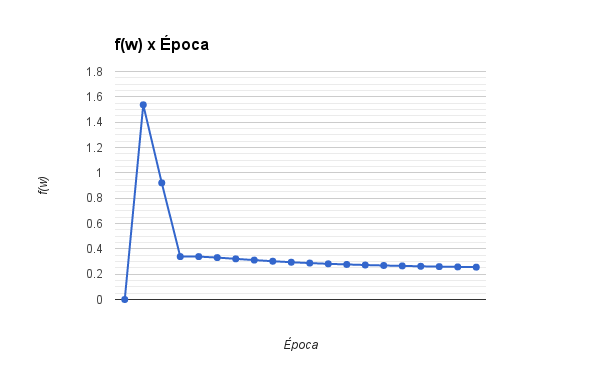
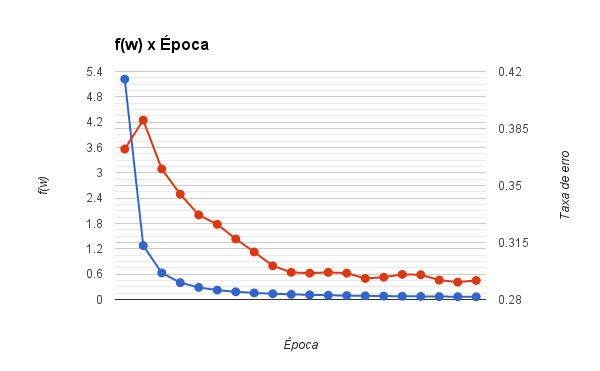
bug fix. Imagemf(w) x epoca refeita

diff --git a/PA1/svm.py b/PA1/svm.py
@@ -41,7 +41,8 @@ def convertText2FeatureArray(fileName, vocabulary):
                                 emailFeatures.append(1)
                         else:
                                 emailFeatures.append(0)
-                data.append([int(lineSplit[0]), numpy.array(emailFeatures)])
+		classification = -1 if lineSplit[0] == '0' else 1
+                data.append([classification, numpy.array(emailFeatures)])
 
         f.close()
         log.debug(vocabulary)
@@ -49,81 +50,77 @@ def convertText2FeatureArray(fileName, vocabulary):
 	return data
 
 
-#Trains a perceptron classifier using the examples provided to the function, and return the final classification vector, the number of updates (mistakes) performed, and the number of passes through the data, respectively. For the corner case of w.x = 0, predict the +1 (spam) class.
-def perceptron_train(data):
-	allCorrect = False
+def pegasos_svm_train(data, lambd):
+	max_epoch = 20
+	current_epoch = 0
+	step = 0
 	dimension = len(data[0][1])
 	w = numpy.array([0] * dimension)
-	errorCount = 0
-	step = 0
+	f_w = 0.0
+	while current_epoch < max_epoch:
+		step += 1.0
+		n_t  = 1.0/(step * lambd)
+		total = 0.0
+		m = 1.0
+		errorCount = 0.0
 
-	while not allCorrect:
-		step = step + 1
-		allCorrect = True
-		i = 0
 		for record in data:
-			i += 1
 			r = numpy.dot(w, record[1])
-			if r >= 0 and record[0] == 0:
-				#error: missclassified a non spam email as spam
-				errorCount += 1
-				allCorrect = False
-				w = w + record[1] * -1
-				log.debug('1 - [%s] r=%s c=%s %s %s %s', i, r, record[0], step, errorCount, w)
-			elif r < 0 and record[0] == 1:
-				#error: missclassified a spam email as non spam
-				errorCount += 1
-				allCorrect = False
-				w = w + record[1] * 1
-				log.debug('2 - [%s] r=%s c=%s %s %s %s', i, r, record[0], step, errorCount, w)
-	
-	return w, errorCount, step
+			total = 1.0 - (record[0] * numpy.dot(w, record[1]))
+			m += 1.0
+			
+			if r * record[0] < 0.0:
+				errorCount += 1.0	
+			
+			if r * record[0] < 1.0:
+                	        w = (1.0 - (1.0/step)) * w + ((n_t * record[0]) * record[1])
+			else:
+        	                w = (1.0 - (1.0/step)) * w
 
-def perceptron_test(data, w):
-        dimension = len(data[0][1])
+		#calculate f(w)
+		f_w = (lambd/2.0) * pow(numpy.linalg.norm(w),2)
+		f_w = f_w + (total/m)
+
+		current_epoch += 1
+		print 'Epoch: {0} f(w): {1}'.format(current_epoch, f_w)
+		print 'Epoch: {0} error rate: {1}'.format(current_epoch, errorCount/m)
+
+	print 'Train f(w)', f_w
+	return w
+
+	
+def pegasos_svm_test(data, w, lambd):
         errorCount = 0.0
 	total = 0.0
+	m = 1.0
 
-        for record in data:
-		total += 1.0
-        	r = numpy.dot(w, record[1])
-                if r > 0 and record[0] == 0:
-                	#error: missclassified a non spam email as spam
-                        errorCount += 1.0
-		elif r <= 0 and record[0] == 1:
-                	#error: missclassified a spam email as non spam
-                        errorCount += 1.0
+	for record in data:
+		r = numpy.dot(w, record[1])
+                total = 1.0 - (record[0] * numpy.dot(w, record[1]))
+                m += 1.0
+
+                if r * record[0] < 0:
+			errorCount += 1
+
+                #calculate f(w)
+                f_w = (lambd/2.0) * pow(numpy.linalg.norm(w),2)
+                f_w = f_w + (total/m)
 
 
-        return errorCount/total
-
-def printTopFeatures(w, vocabulary):
-	negativec = Counter()
-	positivec = Counter()
-	i = 0
-
-	for word in vocabulary.keys():
-		if w[i] >= 0:
-			positivec[word] = w[i]
-		else:
-			negativec[word] = w[i] * -1
-		i += 1		
-	
-	print 'Spam likely: ', positivec.most_common(15)
-	print 'Non spam likely: ', negativec.most_common(15)
+        return errorCount/m, f_w
 
 
 def main(argv=sys.argv):
 	log.basicConfig(format='%(levelname)s:%(message)s', filename='/tmp/run.log', level=log.DEBUG)		
 	log.info('########### Execution starts ###########')	
 	try:
-        	opts, args = getopt.getopt(sys.argv[1:], 'v:t:')
+        	opts, args = getopt.getopt(sys.argv[1:], 'v:t:e:')
     	except getopt.GetoptError as err:
 	        print str(err) 
 	        sys.exit(2)
 	trainingFileName = None
     	validationFileName = None
-
+	exponent = 5
     	for o, a in opts:
         	if o == '-t':
 			log.debug('Configuring testing file name: %s', a)
@@ -131,21 +128,22 @@ def main(argv=sys.argv):
         	elif o == '-v':
 			log.debug('Configuring validation file name: %s', a)
             		validationFileName = a
+		elif o == '-e':
+			exponent = int(a)
         	else:
 	            assert False, "unhandled option"
 
+	print 'lambd = 2^', exponent
+
 	if trainingFileName != None:
 		data, vocabulary = getDataFromFile(trainingFileName)
-		w, errorCount, step = perceptron_train(data)
-		print errorCount, step, 
+		w = pegasos_svm_train(data, pow(2,exponent))
 
 		if validationFileName != None:
 			data = convertText2FeatureArray(validationFileName, vocabulary)
-			errorRate = perceptron_test(data, w)
-			
-			print("%.4f" % errorRate)
-
-		printTopFeatures(w, vocabulary)
+			errorRate, f_w = pegasos_svm_test(data, w, pow(2,exponent))
+			print('Validation %.6f' % f_w),
+			print('Validation Error Rate %.6f' % errorRate)
 
 	log.info('########### Execution finished ###########')
 

diff --git a/PA1/tp1.py b/PA1/tp1.py
@@ -60,32 +60,33 @@ def perceptron_train(data):
 	while not allCorrect:
 		step = step + 1
 		allCorrect = True
+		i = 0
 		for record in data:
+			i += 1
 			r = numpy.dot(w, record[1])
-			log.debug(w)
-			if r > 0 and record[0] == 0:
+			if r >= 0 and record[0] == 0:
 				#error: missclassified a non spam email as spam
 				errorCount += 1
 				allCorrect = False
 				w = w + record[1] * -1
-			elif r <= 0 and record[0] == 1:
+				log.debug('1 - [%s] r=%s c=%s %s %s %s', i, r, record[0], step, errorCount, w)
+			elif r < 0 and record[0] == 1:
 				#error: missclassified a spam email as non spam
 				errorCount += 1
 				allCorrect = False
 				w = w + record[1] * 1
+				log.debug('2 - [%s] r=%s c=%s %s %s %s', i, r, record[0], step, errorCount, w)
 	
 	return w, errorCount, step
 
 def perceptron_test(data, w):
         dimension = len(data[0][1])
-        w = numpy.array([0] * dimension)
         errorCount = 0.0
 	total = 0.0
 
         for record in data:
 		total += 1.0
         	r = numpy.dot(w, record[1])
-                log.debug(w)
                 if r > 0 and record[0] == 0:
                 	#error: missclassified a non spam email as spam
                         errorCount += 1.0
@@ -96,8 +97,24 @@ def perceptron_test(data, w):
 
         return errorCount/total
 
+def printTopFeatures(w, vocabulary):
+	negativec = Counter()
+	positivec = Counter()
+	i = 0
+
+	for word in vocabulary.keys():
+		if w[i] >= 0:
+			positivec[word] = w[i]
+		else:
+			negativec[word] = w[i] * -1
+		i += 1		
+	
+	print 'Spam likely: ', positivec.most_common(15)
+	print 'Non spam likely: ', negativec.most_common(15)
+
+
 def main(argv=sys.argv):
-	log.basicConfig(format='%(levelname)s:%(message)s', filename='/tmp/run.log', level=log.INFO)		
+	log.basicConfig(format='%(levelname)s:%(message)s', filename='/tmp/run.log', level=log.DEBUG)		
 	log.info('########### Execution starts ###########')	
 	try:
         	opts, args = getopt.getopt(sys.argv[1:], 'v:t:')
@@ -120,14 +137,15 @@ def main(argv=sys.argv):
 	if trainingFileName != None:
 		data, vocabulary = getDataFromFile(trainingFileName)
 		w, errorCount, step = perceptron_train(data)
-		print 'Updates count:' + str(errorCount)
-		print 'Steps run:' + str(step)
+		print errorCount, step, 
 
 		if validationFileName != None:
 			data = convertText2FeatureArray(validationFileName, vocabulary)
 			errorRate = perceptron_test(data, w)
 			
-			print("%.2f" % errorRate)
+			print("%.4f" % errorRate)
+
+		printTopFeatures(w, vocabulary)
 
 	log.info('########### Execution finished ###########')
 

diff --git a/PA1/perceptron.py b/PA1/perceptron.py
@@ -98,19 +98,21 @@ def perceptron_test(data, w):
         return errorCount/total
 
 def printTopFeatures(w, vocabulary):
-	negativec = Counter()
-	positivec = Counter()
-	i = 0
+	mostPositiveIndexes = w.argsort()[-15::]
+	mostNegativeIndexes = w.argsort()[:15]
 
-	for word in vocabulary.keys():
-		if w[i] >= 0:
-			positivec[word] = w[i]
-		else:
-			negativec[word] = w[i] * -1
-		i += 1		
-	
-	print 'Spam likely: ', positivec.most_common(15)
-	print 'Non spam likely: ', negativec.most_common(15)
+	positiveFeatures = []
+	negativeFeatures = []
+
+	for i in mostPositiveIndexes:
+		positiveFeatures.append([vocabulary.keys()[i], w[i]])		
+
+	for i in mostNegativeIndexes:
+                negativeFeatures.append([vocabulary.keys()[i], w[i]])
+
+
+	print 'Spam likely: ', positiveFeatures 
+	print 'Non spam likely: ', negativeFeatures
 
 
 def main(argv=sys.argv):
